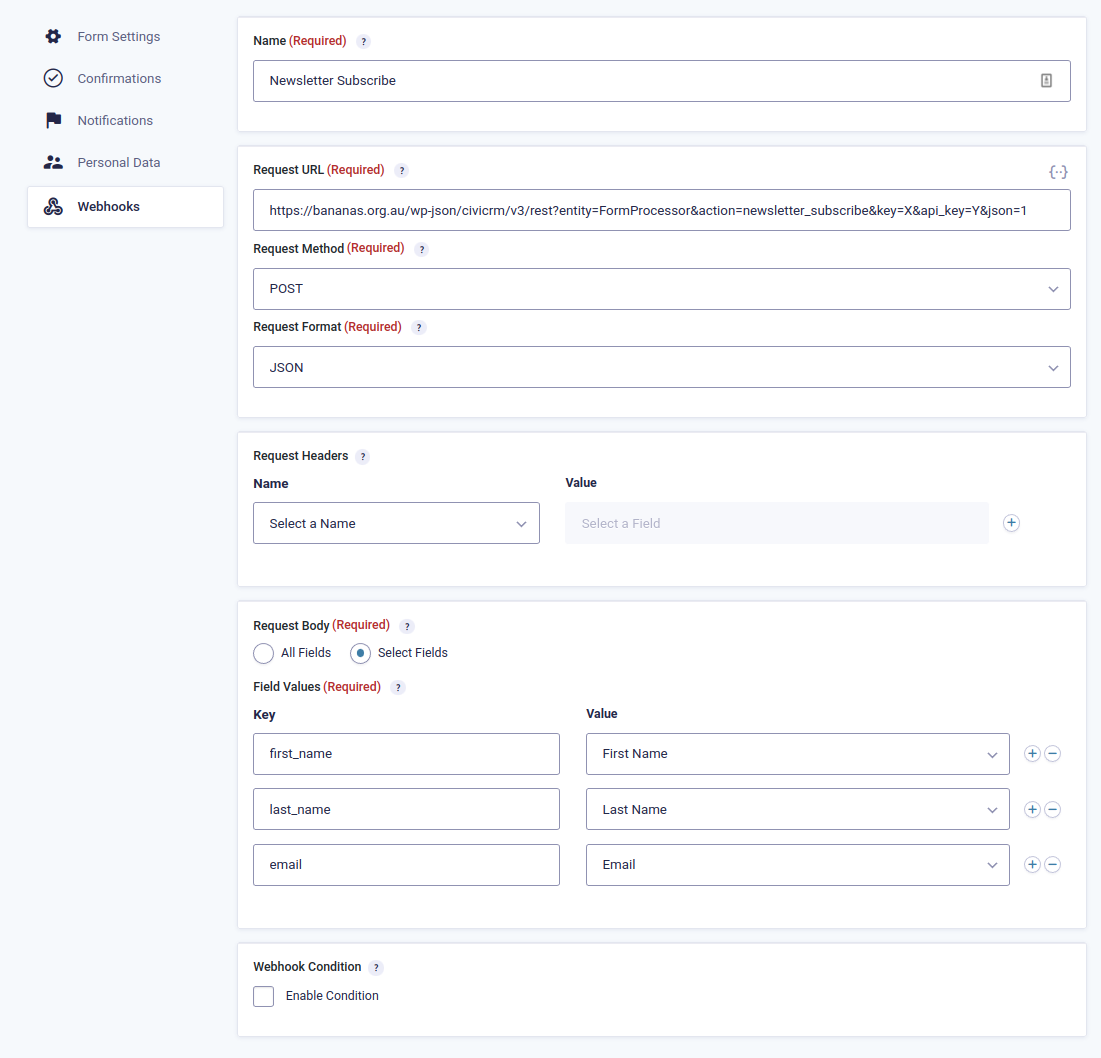
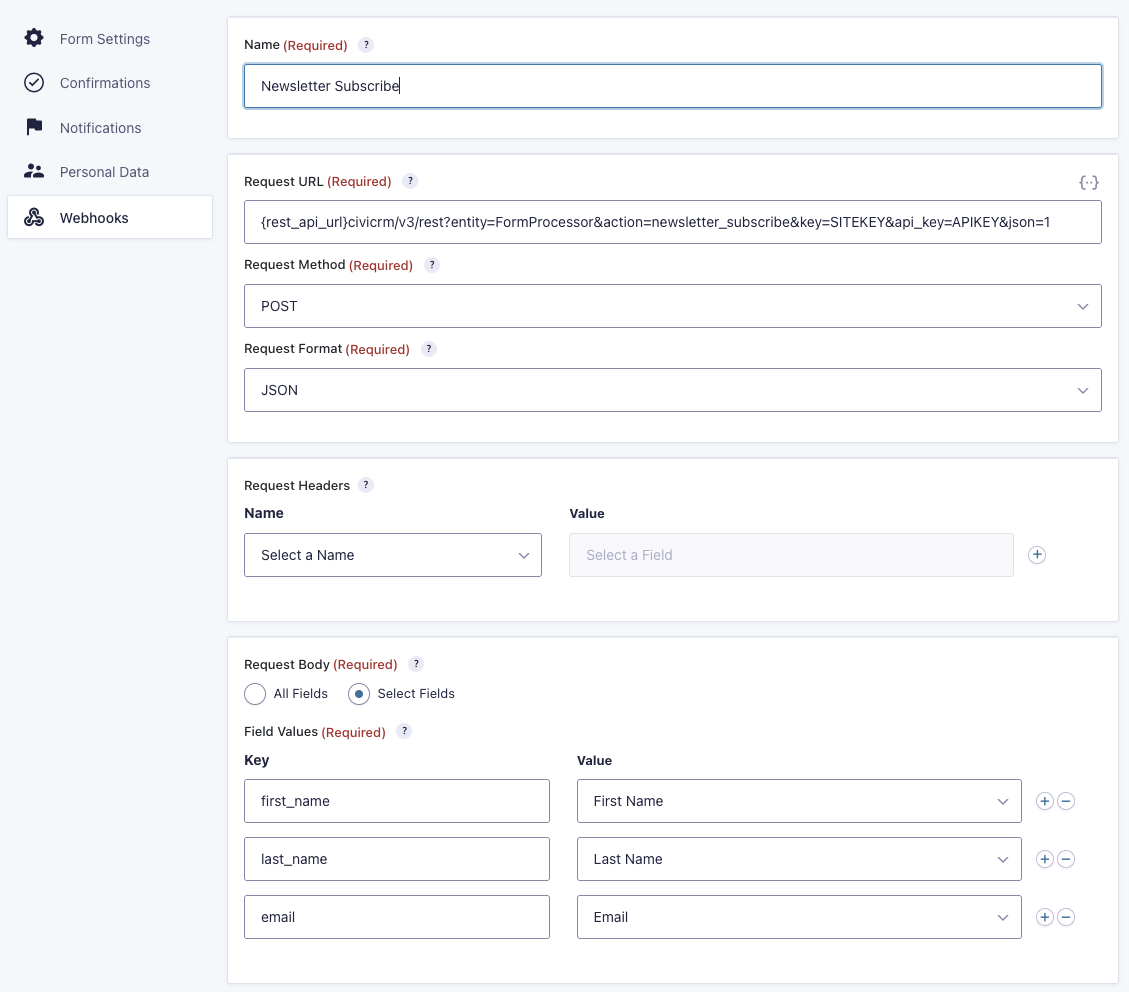
GFCV-116 Update README and image

diff --git a/README.md b/README.md
@@ -30,10 +30,10 @@ Use the following steps to set up a _Newsletter Subscription_ form using the exa
 10. Configure the **Webhook**
 11. Configure the Webhook as shown below. ![Gravity Form, Webhook](images/gravityforms-webhook.png)
 12. In the **Request URL** parameters for the Webhook, replace the following values:
-    1. Insert the website address, **replacing** example.org.au (_seriously, why did you enter that?_)
-    3. **key**, enter the **Site API Key**
-    4. **api_key**, enter the **User API Key**
-    5. Example URL: `https://example.org.au/wp-json/civicrm/v3/rest?entity=FormProcessor&action=newsletter_subscribe&key=SITEKEY&api_key=APIKEY&json=1`
+    1. `{rest_api_url}` - This Gravity Forms, Webhook, Merge Tag will return the WordPress REST endpoint, for example: https://bananas.org.au/wp-json/
+    3. `key`, enter the **CiviCRM Site API Key**
+    4. `api_key`, enter the **CiviCRM API Key**
+    5.  Example URL: `{rest_api_url}civicrm/v3/rest?entity=FormProcessor&action=newsletter_subscribe&key=SITEKEY&api_key=APIKEY&json=1`
 13. Save the Webhook
 14. In CiviCRM, go to the Administer > Automation > Form Processors page, `/wp-admin/admin.php?page=CiviCRM&q=civicrm%2Fadmin%2Fautomation%2Fformprocessor%2F#/formprocessors`
 15. Import example Form Processor, [civicrm-form-processor-newsletter_subscribe.json](example/civicrm-form-processor-newsletter_subscribe.json)
@@ -50,13 +50,13 @@ Use the following steps to set up a _Newsletter Subscription_ form using the exa
 
 # Using Merge Tags for default field values
 
-When setting up your field in Gravity Forms, you can use a merge tag of the form `{civicrm_fp.$processor.$field}` in the **Default Value** section of your Field's Advanced settings.
+When setting up your field in Gravity Forms, you can use a Merge Tag of the form `{civicrm_fp.$processor.$field}` in the **Default Value** section of your Field's Advanced settings.
 
 In the _Newsletter Subscription_ above for example, you could fill in the Email field with the current user's email address recorded in CiviCRM, you would use `{civicrm_fp.newsletter_subscribe.email}`, and set up the Retrieval of Defaults accordingly for the newsletter_subscribe Form Processor in CiviCRM.
 
 The "Retrieval criteria for default data" specified in the form processor will be mapped to URL parameters when your Gravity Form is displayed to your users, such that if you create a criterion named `cid` to retrieve contact details by ID, you'd be able to specify contact ID _1234_ with a request like:
 
-`https://example.org.au/newsletter_subscribe?cid=1234`
+`https://bananas.org.au/newsletter_subscribe?cid=1234`
 
 # Using options defined in CiviCRM for choices in your form fields
 
@@ -82,12 +82,12 @@ If you set defaults for the Form Processor input used as a "CiviCRM Source", the
 
 # Processing form submissions as a specific Contact
 
-Any form processor that should record actions as a specific Contact must implement checksum validation as part of the processor
+Any Form Processor that should record actions as a specific Contact must implement checksum validation as part of the processor
 
-1. Include fields in the form processor that are used for the checksum validation
+1. Include fields in the Form Processor that are used for the checksum validation
     - `cid` for the Contact ID
     - `cs` for the Checksum
-2. These fields should also be included in Gravity Forms, using merge tags from the form processor as defaults
+2. These fields should also be included in Gravity Forms, using Merge Tags from the form processor as defaults
 3. Inside the Form processor "Retrieval of defaults" settings, use the "Contact: get contact ID of the currently logged in user" and "Contact: generate checksum" actions to provide default values to these fields
 4. You can also use the "Retrieval criteria for default data" to add `cid` and `cs` criteria supporting checksum links generated from CiviCRM schedule reminders.
     - Works with any link that includes `?{contact.checksum}&cid={contact.id}` on the page with the Gravity Form.
@@ -99,14 +99,11 @@ An example of this setup is available,
 - Import Gravity form: [gravityforms-update_card.json](example/gravityforms-update_card.json)
 - Import Form Processor: [civicrm-form-processor-update_card.json](example/civicrm-form-processor-update_card.json)
 
-## **Deprecated** - CiviCRM API Key merge tag
+## {civicrm_api_key} - CiviCRM API Key merge tag (Deprecated)
 
-This method is preferred to the previously documented `{civicrm_api_key}` merge tag to use the API Key of the user viewing the form, due to impracticalities discovered in the latter workflow.
+This method is **deprecated**, instead provide a CiviCRM API Key for CiviCRM Contact with sufficient permissions to execute the Form Processor or use the method described in the above section, _Processing form submissions as a specific Contact_.
 
-## **Removed** - "Allow authentication with checksum"
-
-Previous versions presented a checkbox on the CiviCRM settings tab to masquerade as a logged in user based on passed in `cid` and `cs` URL parameters. We found that in some circumstances this workflow could permanently hijack the logged in user's session, **which could result in privilege escalation**.
-The option is no longer allowed; the functionality has been removed from the plugin and an alternative method of checksum authentication can be implemented according to [Processing form submissions as a specific Contact](#processing-form-submissions-as-a-specific-contact) above
+The `{civicrm_api_key}` Merge Tag will return the CiviCRM API Key for the user that submitted the form.
 
 # Troubleshooting
 
